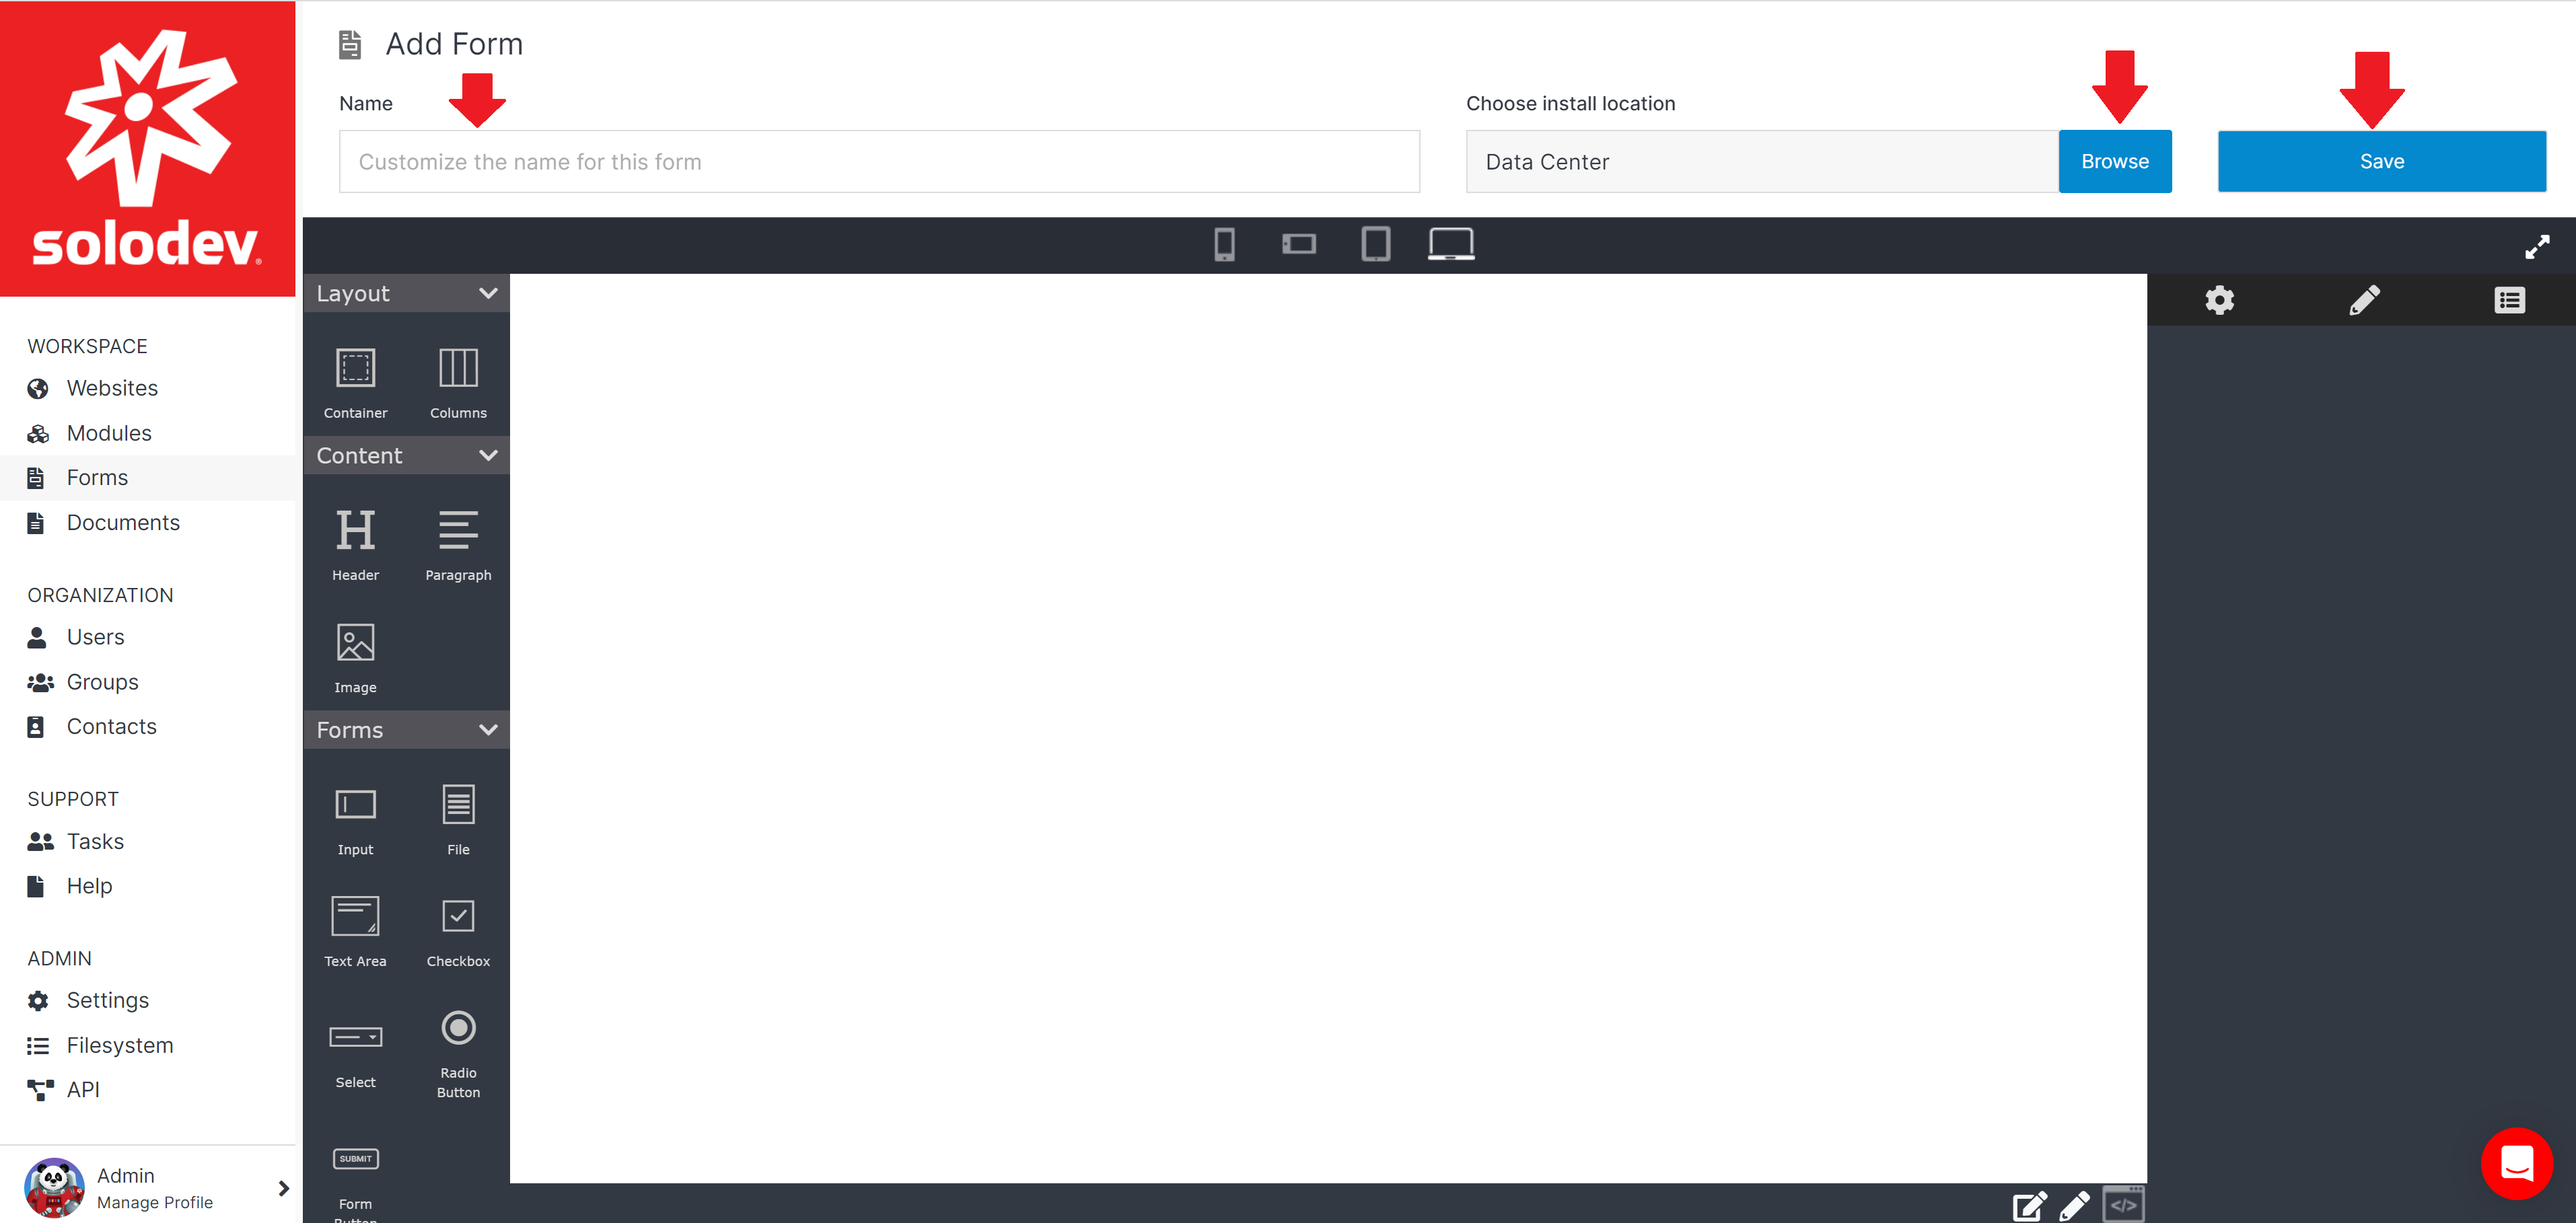
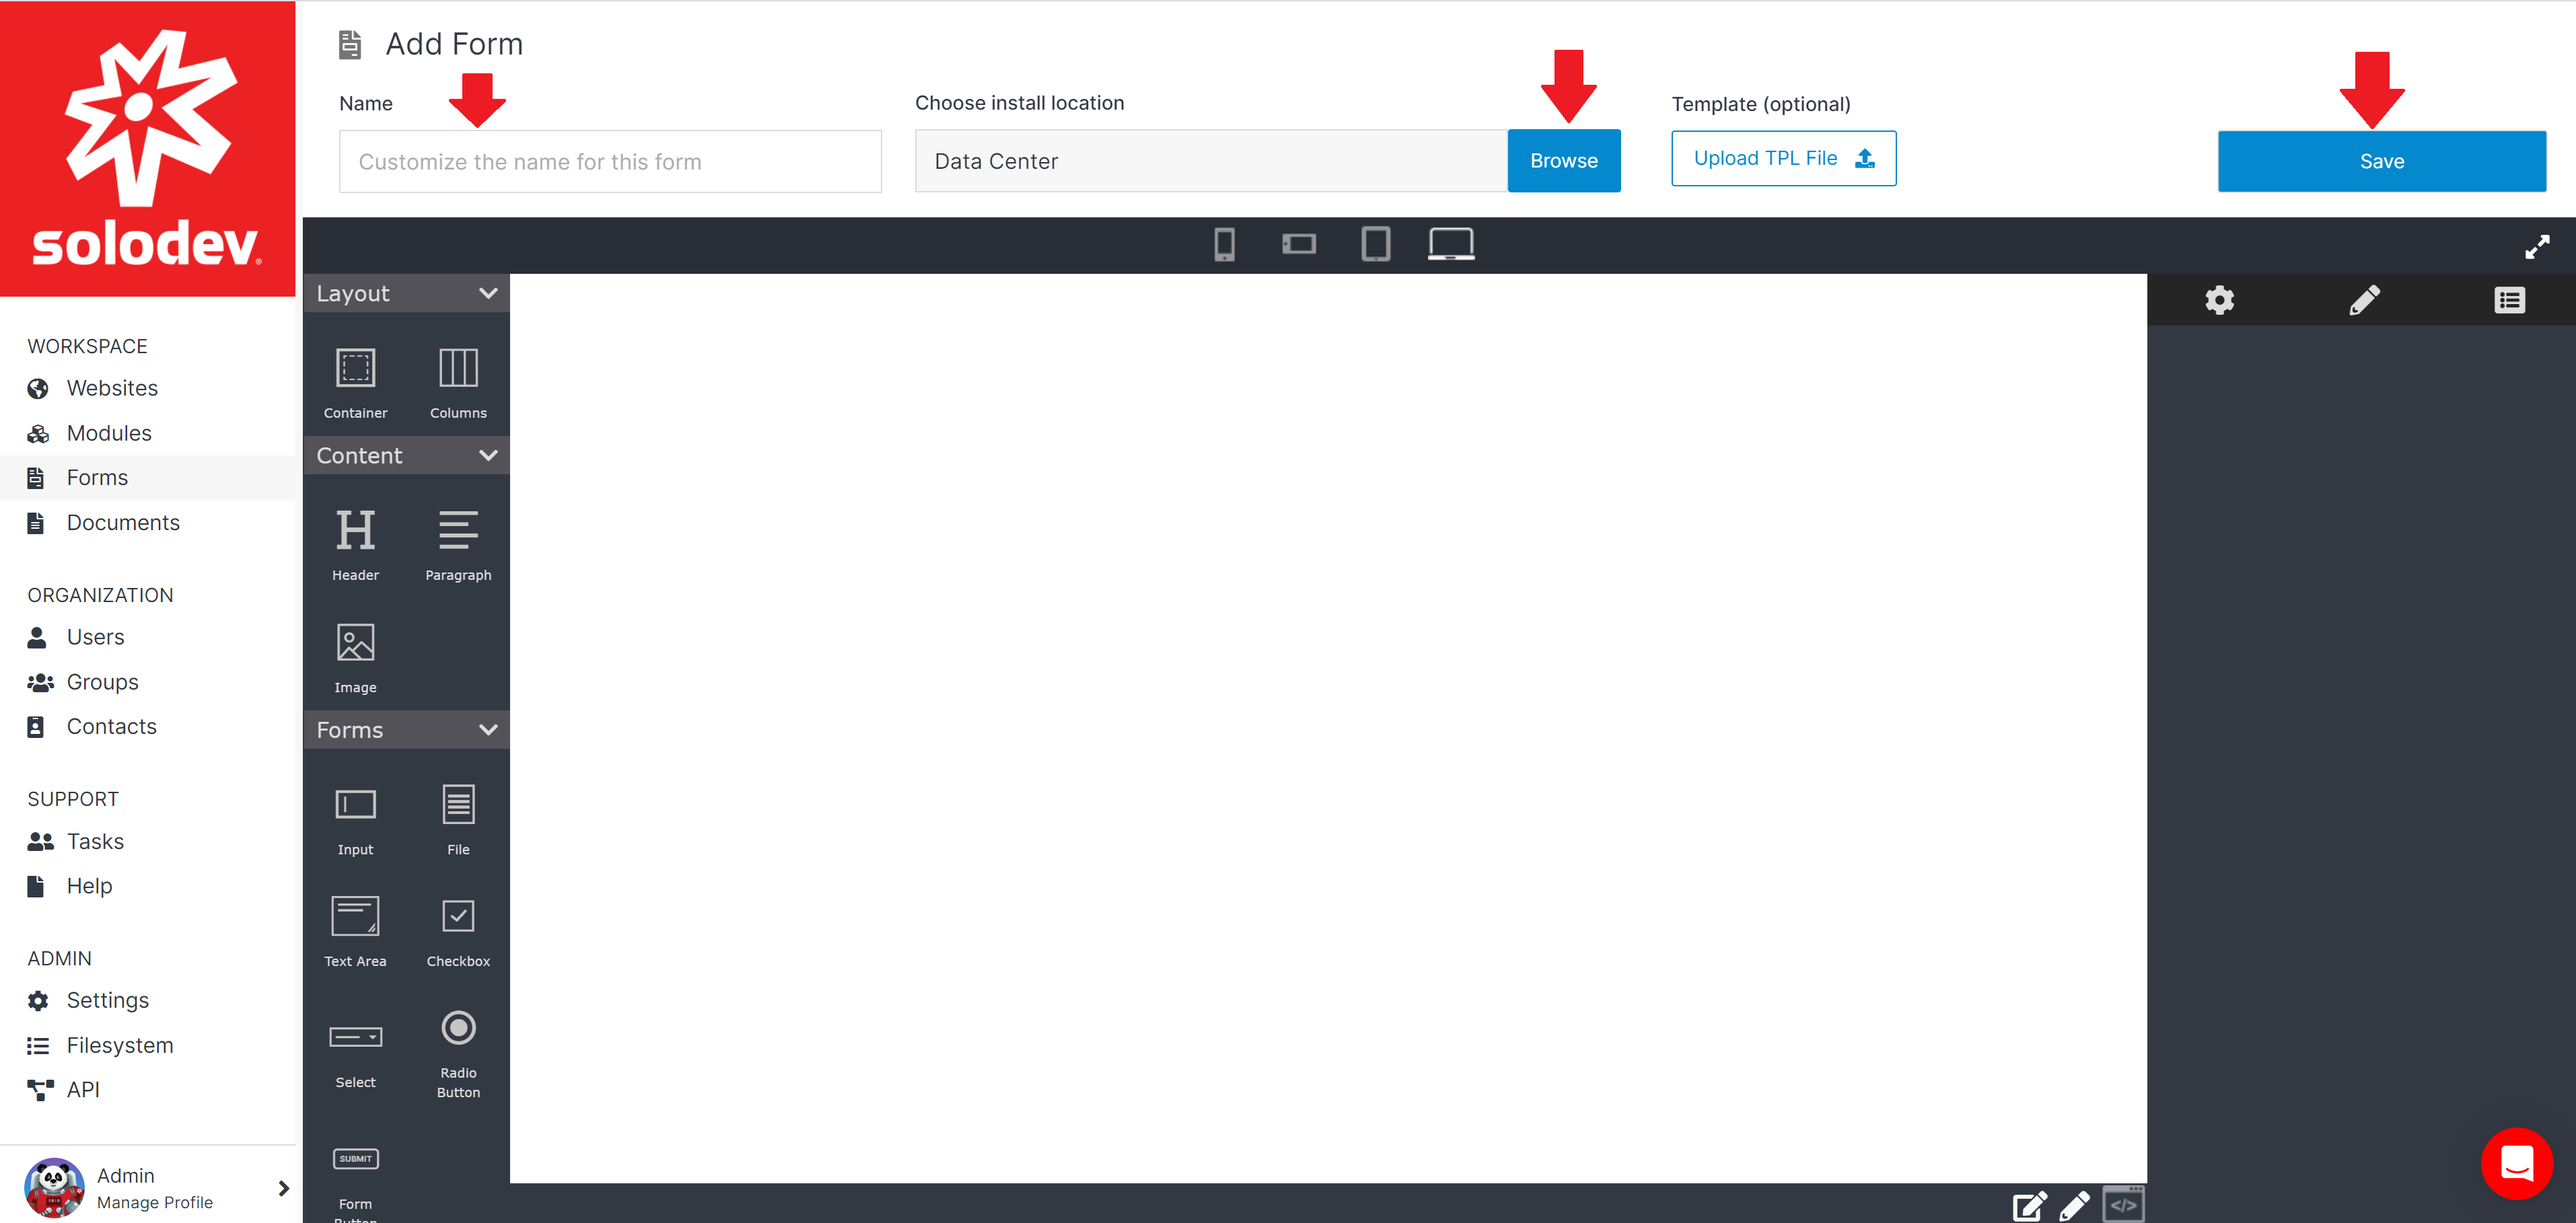
adjustmenst to tutorials/addform

diff --git a/src/Tutorials/CMS/Add Form/index.md b/src/Tutorials/CMS/Add Form/index.md
@@ -46,19 +46,19 @@ Form Button | Insert a button element, which triggers actions like form submissi
 Click and hold the icon to drag and drop the element in the workspace.
 !!!
 
-# Upload Form
+## Upload Form
 
-## Step 1 
+### Step 1 
 
 To begin the template upload process, locate the **Upload TPL File** button and click on it. This button will initiate the template uploading procedure.
 
-<img src="../../../images/upload-form.jpg" alt="base template" style="width: 100%; display: block"></a>
+<img src="../../../images/upload-form.png" alt="base template" style="width: 15%; display: block"></a>
 
-## Step 2
+### Step 2
 
 After clicking on the **Upload TPL File** button, a file selection dialog will appear. Browse through your local files and choose the **.tpl** file that you wish to upload. Ensure that the selected file is in the appropriate **.tpl** format, as this is the supported file format for the upload.
 
-## Step 3 
+### Step 3 
 
 Once you have successfully uploaded the desired **.tpl** file, click on the **Save** button to confirm the upload. This will save the template to the system, making it available for further use.
 
@@ -66,14 +66,14 @@ Once you have successfully uploaded the desired **.tpl** file, click on the **Sa
 Please make sure that the uploaded package is in the correct **.tpl** format, as any other file format will not be accepted for the template upload.
 !!!
 
-# Add Form to Page
+## Add Form to Page
 
-## Step 1
+### Step 1
 
 * Open your content management system (CMS).
 * Navigate to the specific page where you want to add the form.
 
-## Step 2
+### Step 2
 
 * Locate the area on the web page where you want the form to appear. This could be within a specific section, a sidebar, or anywhere else you'd like the form to be displayed.
 * Edit the dynamicDiv of that section or area.
